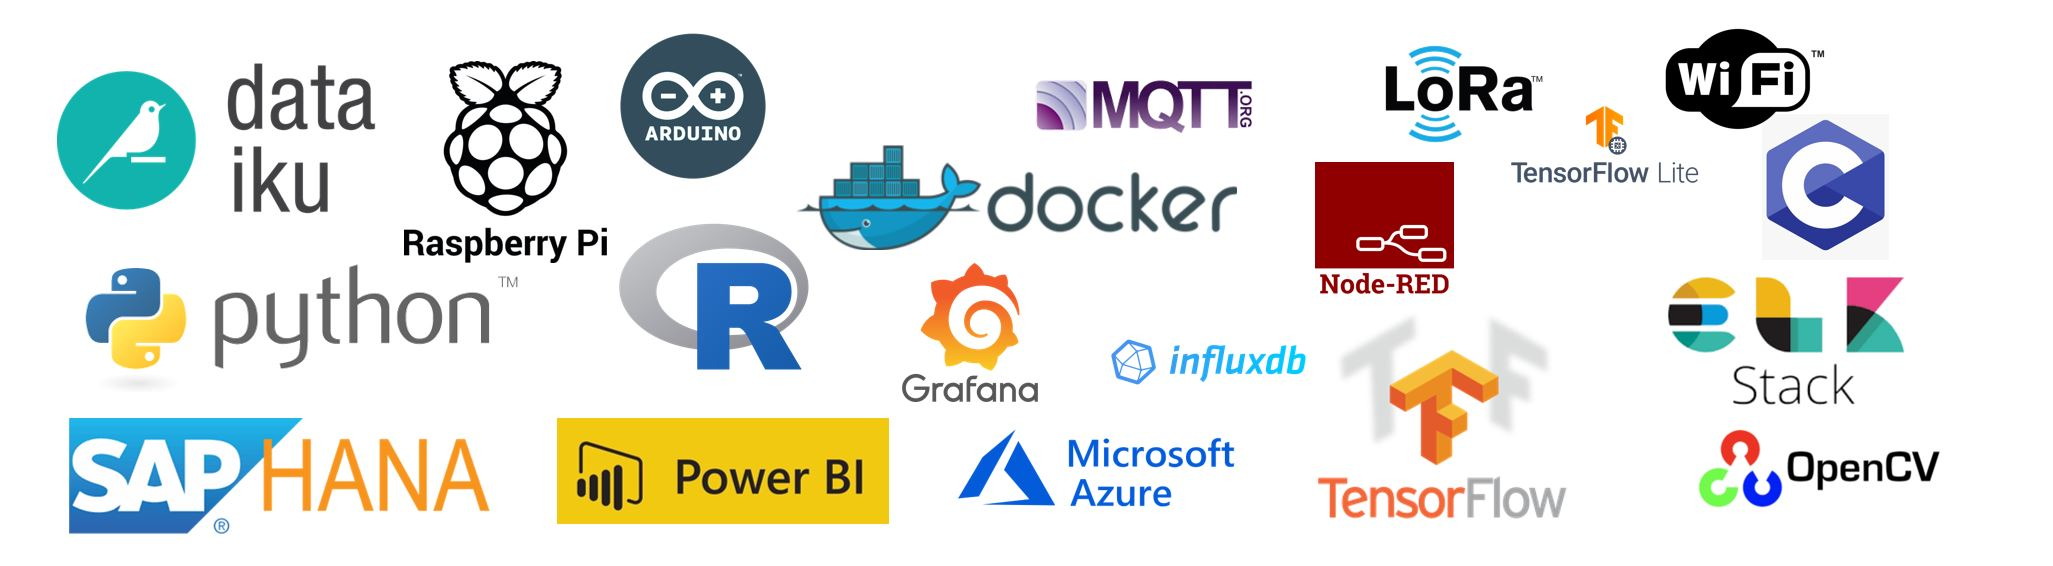
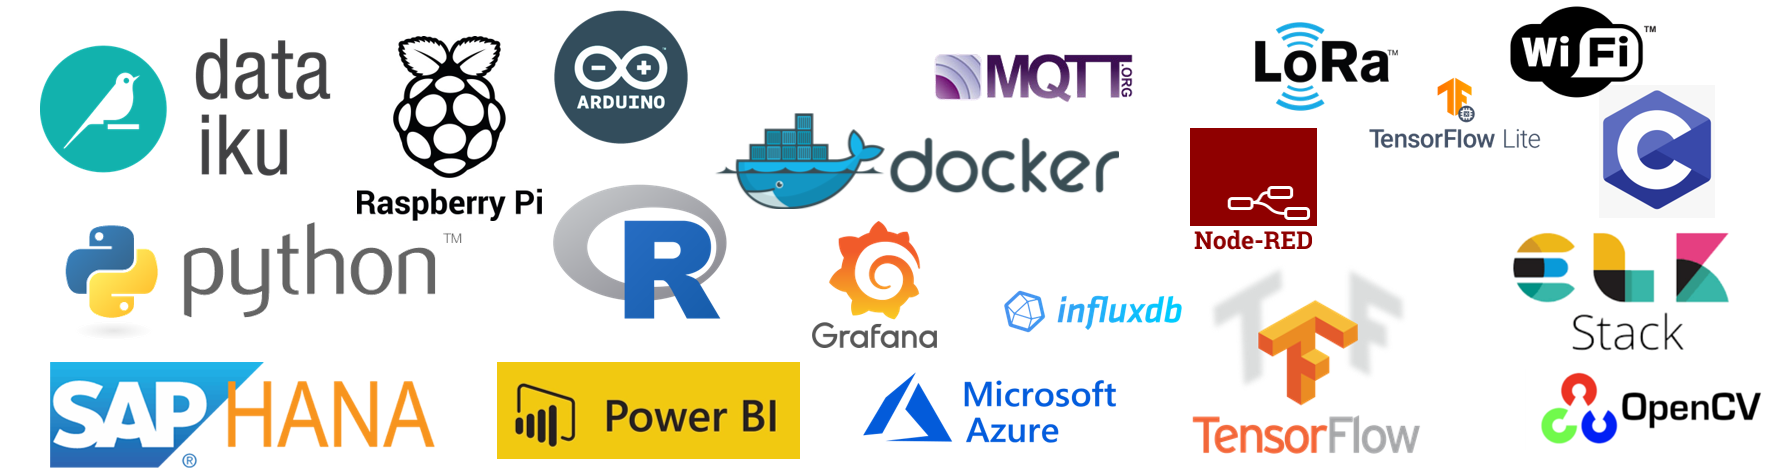
c

diff --git a/index.html b/index.html
@@ -277,7 +277,7 @@
 
               </p>
           <div class="col-lg-4">
-            <img src="img/profile2.jpg" alt="" width="2053" height="566"/>
+            <img src="img/profile2.jpg" alt="" width="684" height="188"/>
           </div>
       </div>
     </section>
